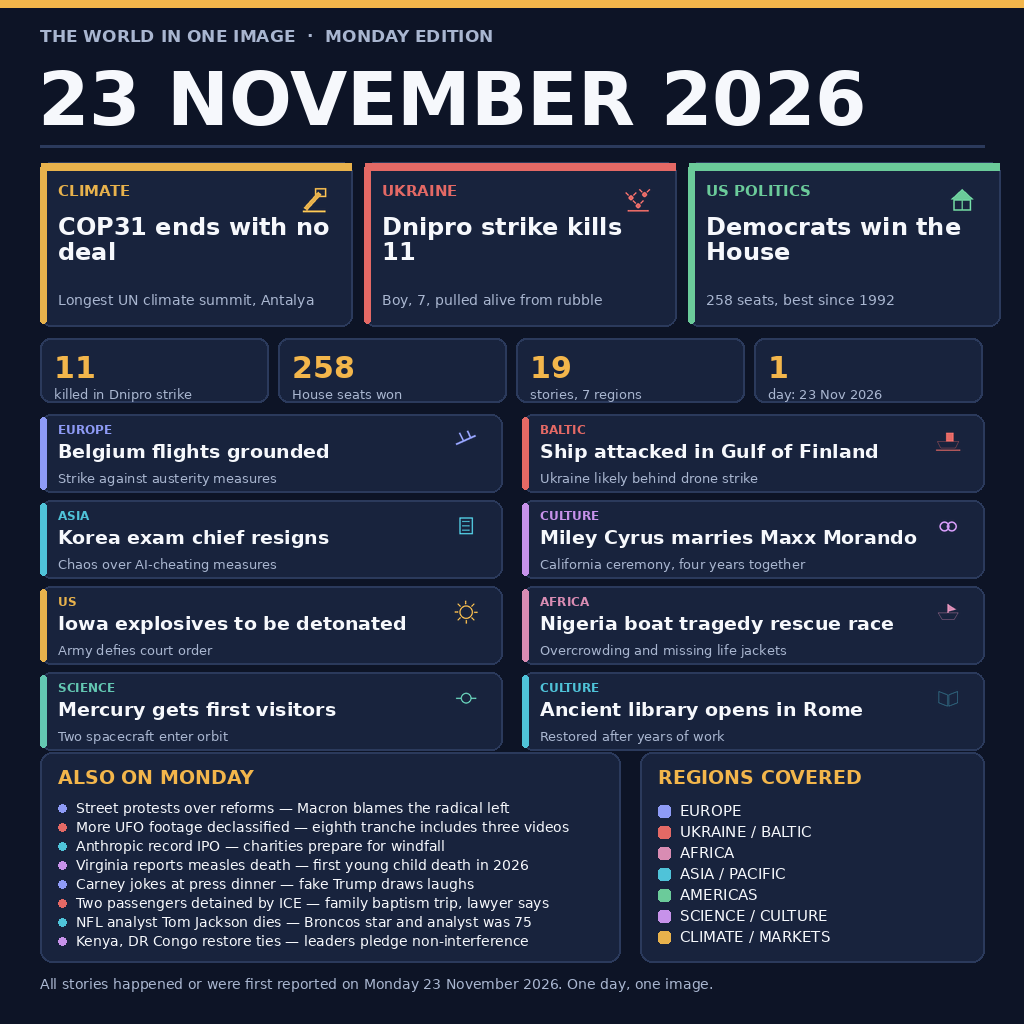
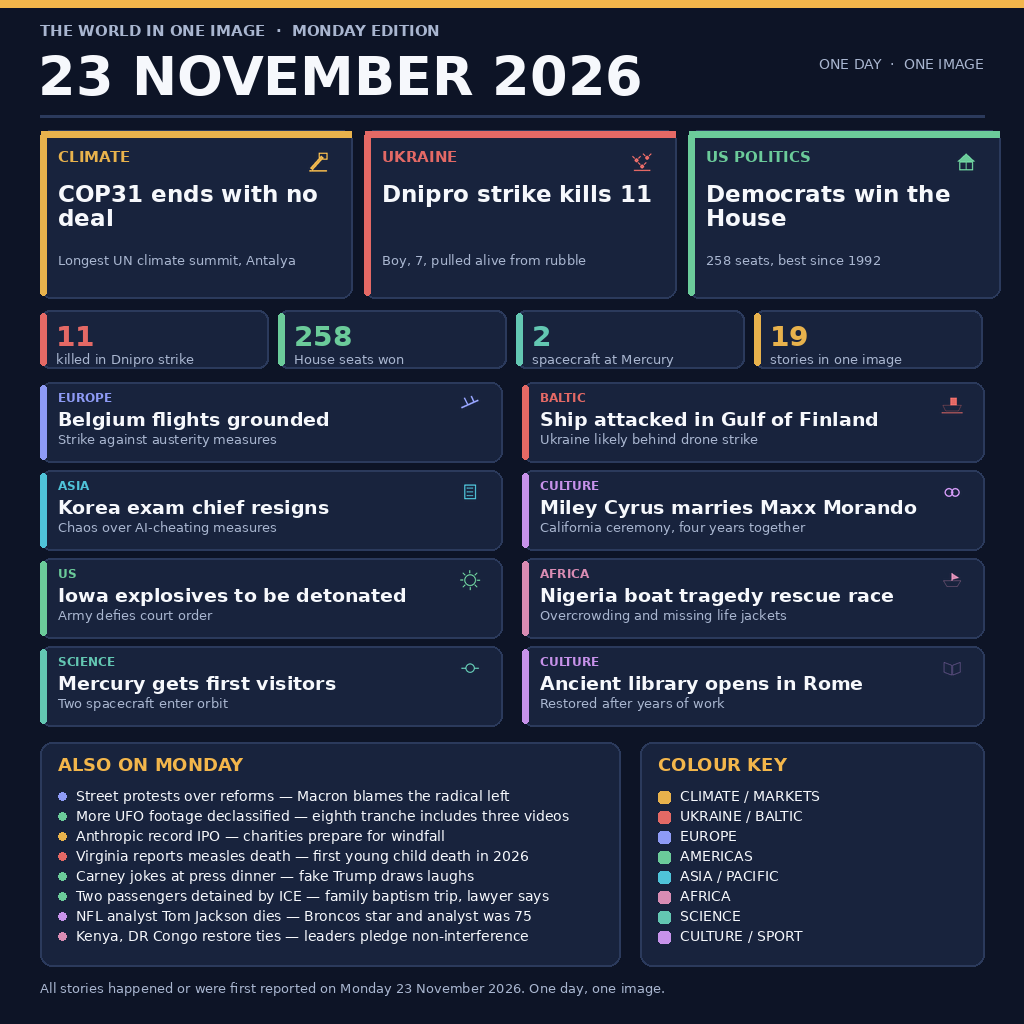
Polish palette and stats, regenerate image

Changed region(s): [[0.0312, 0.0, 0.9688, 0.9688]]

diff --git a/main.py b/main.py
@@ -12,6 +12,17 @@ WHITE = "#F6F8FC"
 MUTED = "#A9B6D0"
 AMBER = "#F3B64B"
 
+# One palette, used by cards, stats, bullets and the key so a colour always
+# means the same thing wherever it appears in the image.
+CLIMATE = "#E8B24C"
+CONFLICT = "#E46965"
+EUROPE = "#8E9BF6"
+AMERICAS = "#6BCB9A"
+ASIA = "#4FC3D9"
+AFRICA = "#D98CB3"
+SCIENCE = "#63C7B2"
+CULTURE = "#C792EA"
+
 FONTS = {
     "regular": "/usr/share/fonts/truetype/dejavu/DejaVuSans.ttf",
     "bold": "/usr/share/fonts/truetype/dejavu/DejaVuSans-Bold.ttf",
@@ -131,31 +142,51 @@ def icon(img, cx, cy, kind, color, size=38):
 
 
 HEROES = [
-    ("CLIMATE", "COP31 ends with no deal", "Longest UN climate summit, Antalya", "#E8B24C", "gavel"),
-    ("UKRAINE", "Dnipro strike kills 11", "Boy, 7, pulled alive from rubble", "#E46965", "drones"),
-    ("US POLITICS", "Democrats win the House", "258 seats, best since 1992", "#6BCB9A", "house"),
+    ("CLIMATE", "COP31 ends with no deal", "Longest UN climate summit, Antalya", CLIMATE, "gavel"),
+    ("UKRAINE", "Dnipro strike kills 11", "Boy, 7, pulled alive from rubble", CONFLICT, "drones"),
+    ("US POLITICS", "Democrats win the House", "258 seats, best since 1992", AMERICAS, "house"),
 ]
 
 GRID = [
-    ("EUROPE", "Belgium flights grounded", "Strike against austerity measures", "#8E9BF6", "plane"),
-    ("BALTIC", "Ship attacked in Gulf of Finland", "Ukraine likely behind drone strike", "#E46965", "ship"),
-    ("ASIA", "Korea exam chief resigns", "Chaos over AI-cheating measures", "#4FC3D9", "exam"),
-    ("CULTURE", "Miley Cyrus marries Maxx Morando", "California ceremony, four years together", "#C792EA", "rings"),
-    ("US", "Iowa explosives to be detonated", "Army defies court order", "#E8B24C", "blast"),
-    ("AFRICA", "Nigeria boat tragedy rescue race", "Overcrowding and missing life jackets", "#D98CB3", "boat"),
-    ("SCIENCE", "Mercury gets first visitors", "Two spacecraft enter orbit", "#63C7B2", "space"),
-    ("CULTURE", "Ancient library opens in Rome", "Restored after years of work", "#4FC3D9", "book"),
+    ("EUROPE", "Belgium flights grounded", "Strike against austerity measures", EUROPE, "plane"),
+    ("BALTIC", "Ship attacked in Gulf of Finland", "Ukraine likely behind drone strike", CONFLICT, "ship"),
+    ("ASIA", "Korea exam chief resigns", "Chaos over AI-cheating measures", ASIA, "exam"),
+    ("CULTURE", "Miley Cyrus marries Maxx Morando", "California ceremony, four years together", CULTURE, "rings"),
+    ("US", "Iowa explosives to be detonated", "Army defies court order", AMERICAS, "blast"),
+    ("AFRICA", "Nigeria boat tragedy rescue race", "Overcrowding and missing life jackets", AFRICA, "boat"),
+    ("SCIENCE", "Mercury gets first visitors", "Two spacecraft enter orbit", SCIENCE, "space"),
+    ("CULTURE", "Ancient library opens in Rome", "Restored after years of work", CULTURE, "book"),
 ]
 
+# Each stat is tied to a real story and carries that story's accent colour.
+STATS = [
+    ("11", "killed in Dnipro strike", CONFLICT),
+    ("258", "House seats won", AMERICAS),
+    ("2", "spacecraft at Mercury", SCIENCE),
+    ("19", "stories in one image", CLIMATE),
+]
+
+# Bullet colour follows the same key as the cards above.
 MORE = [
-    ("FRANCE", "Street protests over reforms — Macron blames the radical left"),
-    ("PENTAGON", "More UFO footage declassified — eighth tranche includes three videos"),
-    ("MARKETS", "Anthropic record IPO — charities prepare for windfall"),
-    ("HEALTH", "Virginia reports measles death — first young child death in 2026"),
-    ("CANADA", "Carney jokes at press dinner — fake Trump draws laughs"),
-    ("SEATTLE", "Two passengers detained by ICE — family baptism trip, lawyer says"),
-    ("SPORT", "NFL analyst Tom Jackson dies — Broncos star and analyst was 75"),
-    ("DIPLOMACY", "Kenya, DR Congo restore ties — leaders pledge non-interference"),
+    (EUROPE, "Street protests over reforms — Macron blames the radical left"),
+    (AMERICAS, "More UFO footage declassified — eighth tranche includes three videos"),
+    (CLIMATE, "Anthropic record IPO — charities prepare for windfall"),
+    (CONFLICT, "Virginia reports measles death — first young child death in 2026"),
+    (AMERICAS, "Carney jokes at press dinner — fake Trump draws laughs"),
+    (AMERICAS, "Two passengers detained by ICE — family baptism trip, lawyer says"),
+    (CULTURE, "NFL analyst Tom Jackson dies — Broncos star and analyst was 75"),
+    (AFRICA, "Kenya, DR Congo restore ties — leaders pledge non-interference"),
+]
+
+KEY = [
+    ("CLIMATE / MARKETS", CLIMATE),
+    ("UKRAINE / BALTIC", CONFLICT),
+    ("EUROPE", EUROPE),
+    ("AMERICAS", AMERICAS),
+    ("ASIA / PACIFIC", ASIA),
+    ("AFRICA", AFRICA),
+    ("SCIENCE", SCIENCE),
+    ("CULTURE / SPORT", CULTURE),
 ]
 
 
@@ -164,64 +195,58 @@ def build():
     d = ImageDraw.Draw(img)
 
     d.rectangle((0, 0, W, 7), fill=AMBER)
-    text(d, (40, 26), "THE WORLD IN ONE IMAGE  ·  MONDAY EDITION", 17, MUTED, True)
-    text(d, (38, 56), "23 NOVEMBER 2026", 74, WHITE, True)
-    d.line((40, 146, 984, 146), fill=BORDER, width=3)
+    text(d, (40, 22), "THE WORLD IN ONE IMAGE  ·  MONDAY EDITION", 15, MUTED, True)
+    text(d, (38, 44), "23 NOVEMBER 2026", 54, WHITE, True)
+    text(d, (984, 56), "ONE DAY  ·  ONE IMAGE", 14, MUTED, False, "ra")
+    d.line((40, 116, 984, 116), fill=BORDER, width=3)
 
     cw, gap = 312, 12
     for i, (tag, head, sub, col, ico) in enumerate(HEROES):
         x = 40 + i * (cw + gap)
-        panel(d, (x, 162, x + cw, 326), col)
-        d.rectangle((x + 1, 163, x + cw - 1, 170), fill=col)
-        text(d, (x + 18, 182), tag, 15, col, True)
-        icon(img, x + cw - 38, 200, ico, col, 36)
-        wrapped = wrap(d, head, 24, cw - 36, True)
-        multiline(d, (x + 18, 212), wrapped, 24, WHITE, True, 1)
-        text(d, (x + 18, 292), sub, 14, MUTED)
+        panel(d, (x, 130, x + cw, 298), col)
+        d.rectangle((x + 1, 131, x + cw - 1, 137), fill=col)
+        text(d, (x + 18, 148), tag, 15, col, True)
+        icon(img, x + cw - 34, 162, ico, col, 28)
+        wrapped = wrap(d, head, 23, cw - 36, True)
+        multiline(d, (x + 18, 180), wrapped, 23, WHITE, True, 1)
+        text(d, (x + 18, 252), sub, 13, MUTED)
 
-    stats = [("11", "killed in Dnipro strike"), ("258", "House seats won"),
-             ("19", "stories, 7 regions"), ("1", "day: 23 Nov 2026")]
     sw = (944 - 3 * 10) // 4
-    for i, (num, lab) in enumerate(stats):
+    for i, (num, lab, col) in enumerate(STATS):
         x = 40 + i * (sw + 10)
-        panel(d, (x, 338, x + sw, 402), radius=10)
-        text(d, (x + 14, 350), num, 30, AMBER, True)
-        text(d, (x + 14, 386), lab, 13, MUTED)
+        panel(d, (x, 310, x + sw, 368), col, radius=10)
+        text(d, (x + 16, 320), num, 28, col, True)
+        text(d, (x + 16, 351), lab, 13, MUTED)
 
-    gx0, gy0, gw, gh, vgap = 40, 414, 462, 78, 8
+    gx0, gy0, gw, gh, vgap = 40, 382, 462, 80, 8
     for i, (tag, head, sub, col, ico) in enumerate(GRID):
         x = gx0 + (i % 2) * (gw + 20)
         y = gy0 + (i // 2) * (gh + vgap)
         panel(d, (x, y, x + gw, y + gh), col)
         text(d, (x + 18, y + 8), tag, 12, col, True)
-        icon(img, x + gw - 36, y + 26, ico, col, 30)
-        wrapped = wrap(d, head, 19, gw - 70, True)
+        icon(img, x + gw - 32, y + 22, ico, col, 26)
+        wrapped = wrap(d, head, 19, gw - 36, True)
         multiline(d, (x + 18, y + 26), wrapped, 19, WHITE, True, 0)
-        text(d, (x + 18, y + 56), sub, 13, MUTED)
+        lines = len(wrapped.split("\n"))
+        text(d, (x + 18, y + 28 + lines * 21), sub, 13, MUTED)
 
-    panel(d, (40, 752, 620, 962), radius=12)
-    text(d, (58, 766), "ALSO ON MONDAY", 19, AMBER, True)
-    for i, (tag, line) in enumerate(MORE):
-        y = 800 + i * 19
-        d.ellipse((58, y + 4, 66, y + 12), fill=["#8E9BF6", "#E46965", "#4FC3D9", "#C792EA"][i % 4])
+    panel(d, (40, 742, 620, 966), radius=12)
+    text(d, (58, 754), "ALSO ON MONDAY", 18, AMBER, True)
+    for i, (col, line) in enumerate(MORE):
+        y = 788 + i * 20
+        d.ellipse((58, y + 4, 66, y + 12), fill=col)
         text(d, (76, y), line, 14, WHITE)
 
-    panel(d, (640, 752, 984, 962), radius=12)
-    text(d, (658, 766), "REGIONS COVERED", 19, AMBER, True)
-    regions = [
-        ("EUROPE", "#8E9BF6"), ("UKRAINE / BALTIC", "#E46965"),
-        ("AFRICA", "#D98CB3"), ("ASIA / PACIFIC", "#4FC3D9"),
-        ("AMERICAS", "#6BCB9A"), ("SCIENCE / CULTURE", "#C792EA"),
-        ("CLIMATE / MARKETS", "#E8B24C"),
-    ]
-    for i, (name, col) in enumerate(regions):
-        y = 802 + i * 21
+    panel(d, (640, 742, 984, 966), radius=12)
+    text(d, (658, 754), "COLOUR KEY", 18, AMBER, True)
+    for i, (name, col) in enumerate(KEY):
+        y = 788 + i * 20
         d.rounded_rectangle((658, y + 3, 670, y + 15), radius=3, fill=col)
-        text(d, (680, y), name, 15, WHITE)
+        text(d, (680, y), name, 14, WHITE)
 
-    text(d, (40, 976),
+    text(d, (40, 980),
          "All stories happened or were first reported on Monday 23 November 2026. One day, one image.",
-         14, MUTED)
+         13, MUTED)
 
     out_dir = "/output"
     try:
